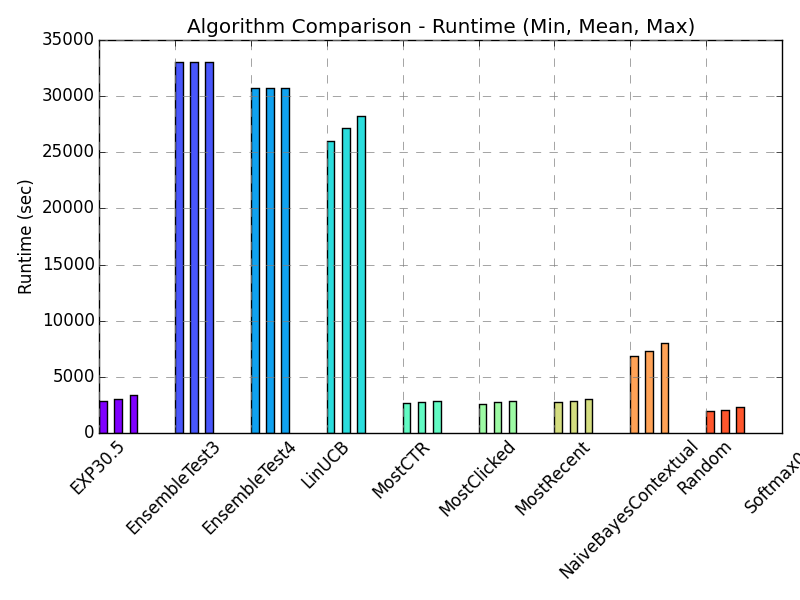
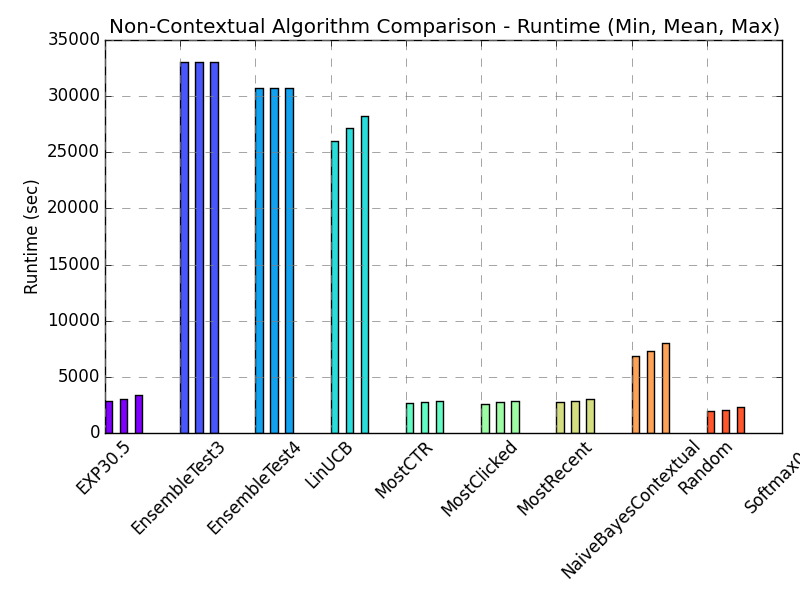
Added new plot files

diff --git a/create_runtime_plot.py b/create_runtime_plot.py
@@ -60,7 +60,7 @@ fontP = FontProperties()
 fontP.set_size('small')
 ax.legend(loc='center left', bbox_to_anchor=(1, 0.5), prop = fontP)
 ax.set_ylabel('Runtime (sec)')
-ax.set_title("Algorithm Comparison - Runtime (Min, Mean, Max)")
+ax.set_title("Non-Contextual Algorithm Comparison - Runtime (Min, Mean, Max)")
 ax.set_xticklabels(ax.xaxis.get_majorticklocs(), rotation=45)
 #ax.set_xticks(ind+ind*N)
 ax.set_xticklabels( policies )
